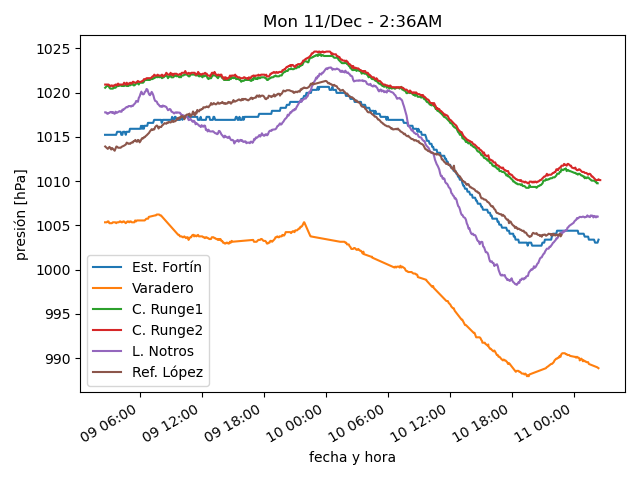
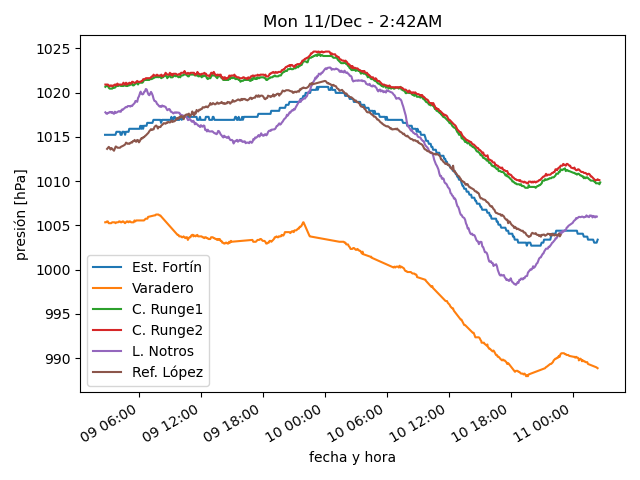
actualiza datos

diff --git a/estaciones/estacion3.html b/estaciones/estacion3.html
@@ -18,32 +18,32 @@
     </tr>
     <tr>
      <td class="stats_data">
-      2:19AM
+      2:39AM
      </td>
     </tr>
     <tr>
      <td class="stats_data">
-      12.9
+      12.8
      </td>
     </tr>
     <tr>
      <td class="stats_data">
-      6.7
+      6.6
      </td>
     </tr>
     <tr>
      <td class="stats_data">
-      65.7
+      66.0
      </td>
     </tr>
     <tr>
      <td class="stats_data">
-      998.04
+      998.14
      </td>
     </tr>
     <tr>
      <td class="stats_data">
-      8.7/12.3 WNW
+      7.0/9.5 WNW
      </td>
     </tr>
     <tr>
